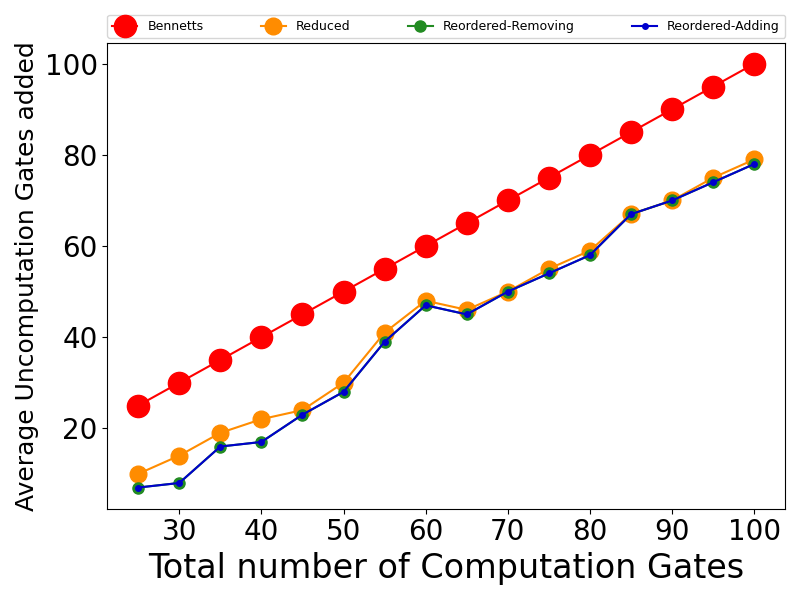
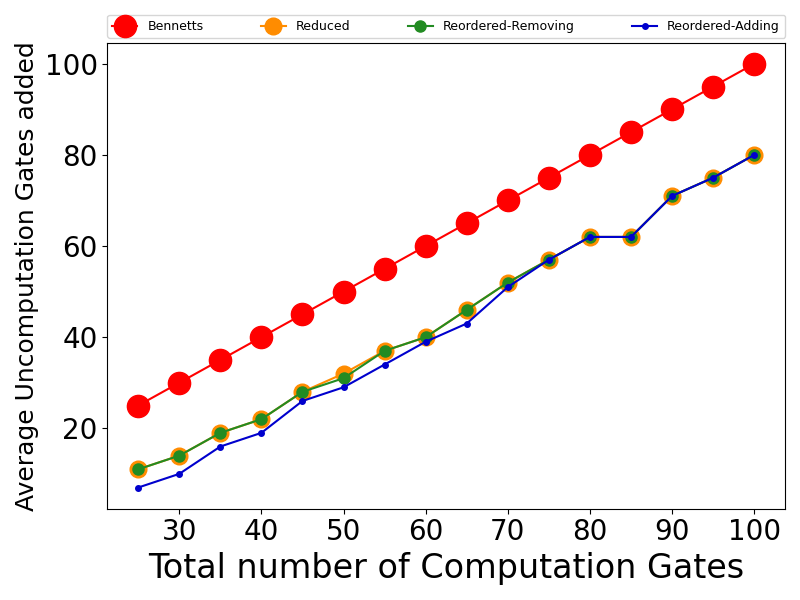
Reordering comparison results

Changed region(s): [[0.1562, 0.24, 0.9688, 0.84]]

diff --git a/evaluation_scripts/eval_non_greedy_uncomp_both_reordering.py b/evaluation_scripts/eval_non_greedy_uncomp_both_reordering.py
@@ -114,7 +114,7 @@ def evaluation_function(num_exp = NUMBER_OF_EXP, circ_decompose=3,
         diff_reordered_2_uncomp_gates.append(_reordered_diff_2)
 
     
-    return diff_bennetts_uncomp_gates, diff_reduced_uncomp_gates, diff_reordered_2_uncomp_gates, diff_reordered_2_uncomp_gates
+    return diff_bennetts_uncomp_gates, diff_reduced_uncomp_gates, diff_reordered_1_uncomp_gates, diff_reordered_2_uncomp_gates
 
 def eval_var_gates(config_data):
         
